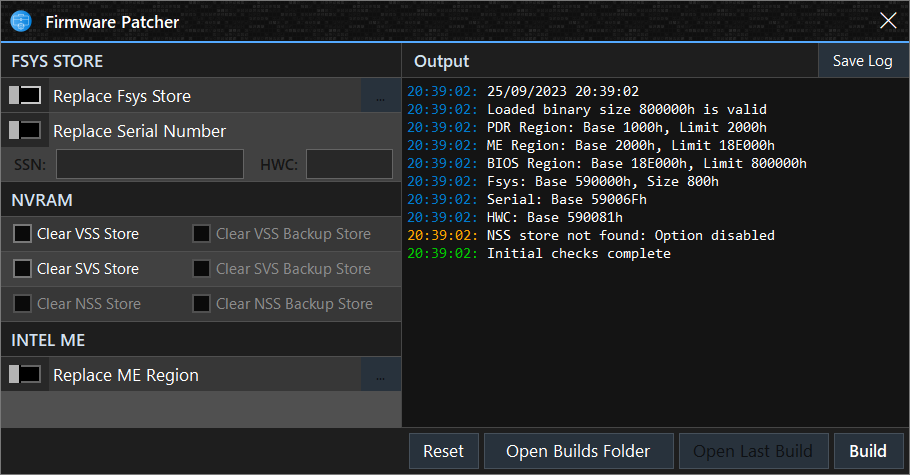
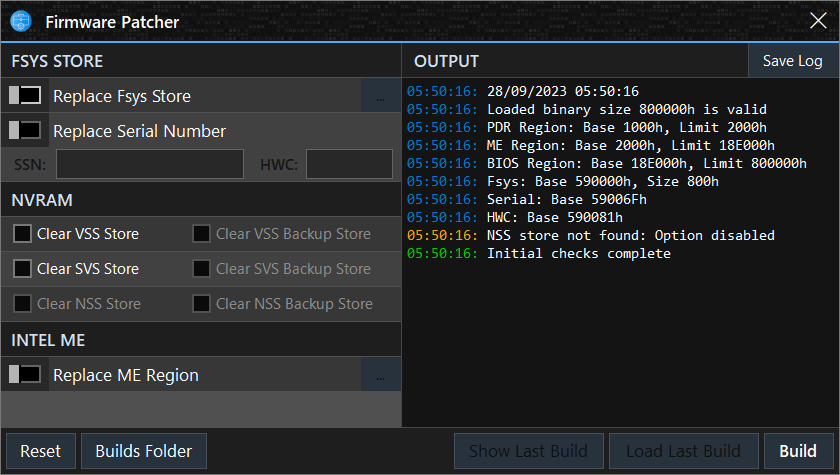
Update resources

diff --git a/mefit/WinForms/patcherWindow.Designer.cs b/mefit/WinForms/patcherWindow.Designer.cs
@@ -107,7 +107,7 @@ namespace Mac_EFI_Toolkit.WinForms
             this.pnlMain.Location = new System.Drawing.Point(1, 43);
             this.pnlMain.Margin = new System.Windows.Forms.Padding(2);
             this.pnlMain.Name = "pnlMain";
-            this.pnlMain.Size = new System.Drawing.Size(908, 385);
+            this.pnlMain.Size = new System.Drawing.Size(838, 385);
             this.pnlMain.TabIndex = 0;
             // 
             // tlpMain
@@ -124,7 +124,7 @@ namespace Mac_EFI_Toolkit.WinForms
             this.tlpMain.Name = "tlpMain";
             this.tlpMain.RowCount = 1;
             this.tlpMain.RowStyles.Add(new System.Windows.Forms.RowStyle(System.Windows.Forms.SizeType.Percent, 100F));
-            this.tlpMain.Size = new System.Drawing.Size(908, 385);
+            this.tlpMain.Size = new System.Drawing.Size(838, 385);
             this.tlpMain.TabIndex = 0;
             this.tlpMain.TabStop = true;
             // 
@@ -709,7 +709,7 @@ namespace Mac_EFI_Toolkit.WinForms
             this.tlpLog.RowStyles.Add(new System.Windows.Forms.RowStyle(System.Windows.Forms.SizeType.Absolute, 1F));
             this.tlpLog.RowStyles.Add(new System.Windows.Forms.RowStyle(System.Windows.Forms.SizeType.Percent, 100F));
             this.tlpLog.RowStyles.Add(new System.Windows.Forms.RowStyle(System.Windows.Forms.SizeType.Absolute, 1F));
-            this.tlpLog.Size = new System.Drawing.Size(507, 385);
+            this.tlpLog.Size = new System.Drawing.Size(437, 385);
             this.tlpLog.TabIndex = 1;
             // 
             // pnlLog
@@ -721,7 +721,7 @@ namespace Mac_EFI_Toolkit.WinForms
             this.pnlLog.Margin = new System.Windows.Forms.Padding(0);
             this.pnlLog.Name = "pnlLog";
             this.pnlLog.Padding = new System.Windows.Forms.Padding(4);
-            this.pnlLog.Size = new System.Drawing.Size(507, 349);
+            this.pnlLog.Size = new System.Drawing.Size(437, 349);
             this.pnlLog.TabIndex = 3;
             // 
             // rtbLog
@@ -735,7 +735,7 @@ namespace Mac_EFI_Toolkit.WinForms
             this.rtbLog.Margin = new System.Windows.Forms.Padding(0);
             this.rtbLog.Name = "rtbLog";
             this.rtbLog.ReadOnly = true;
-            this.rtbLog.Size = new System.Drawing.Size(499, 341);
+            this.rtbLog.Size = new System.Drawing.Size(429, 341);
             this.rtbLog.TabIndex = 0;
             this.rtbLog.TabStop = false;
             this.rtbLog.Text = "";
@@ -757,7 +757,7 @@ namespace Mac_EFI_Toolkit.WinForms
             this.tlpOutput.Name = "tlpOutput";
             this.tlpOutput.RowCount = 1;
             this.tlpOutput.RowStyles.Add(new System.Windows.Forms.RowStyle(System.Windows.Forms.SizeType.Percent, 100F));
-            this.tlpOutput.Size = new System.Drawing.Size(507, 34);
+            this.tlpOutput.Size = new System.Drawing.Size(437, 34);
             this.tlpOutput.TabIndex = 6;
             // 
             // lblOutputText
@@ -770,7 +770,7 @@ namespace Mac_EFI_Toolkit.WinForms
             this.lblOutputText.Margin = new System.Windows.Forms.Padding(0);
             this.lblOutputText.Name = "lblOutputText";
             this.lblOutputText.Padding = new System.Windows.Forms.Padding(8, 0, 0, 0);
-            this.lblOutputText.Size = new System.Drawing.Size(416, 34);
+            this.lblOutputText.Size = new System.Drawing.Size(346, 34);
             this.lblOutputText.TabIndex = 99;
             this.lblOutputText.Text = "OUTPUT";
             this.lblOutputText.TextAlign = System.Drawing.ContentAlignment.MiddleLeft;
@@ -786,7 +786,7 @@ namespace Mac_EFI_Toolkit.WinForms
             this.cmdSaveLog.FlatStyle = System.Windows.Forms.FlatStyle.Flat;
             this.cmdSaveLog.Font = new System.Drawing.Font("Segoe UI", 9F, System.Drawing.FontStyle.Regular, System.Drawing.GraphicsUnit.Point, ((byte)(0)));
             this.cmdSaveLog.ForeColor = System.Drawing.Color.White;
-            this.cmdSaveLog.Location = new System.Drawing.Point(417, 0);
+            this.cmdSaveLog.Location = new System.Drawing.Point(347, 0);
             this.cmdSaveLog.Margin = new System.Windows.Forms.Padding(0);
             this.cmdSaveLog.Name = "cmdSaveLog";
             this.cmdSaveLog.Size = new System.Drawing.Size(90, 34);
@@ -812,7 +812,7 @@ namespace Mac_EFI_Toolkit.WinForms
             this.tlpTitle.Name = "tlpTitle";
             this.tlpTitle.RowCount = 1;
             this.tlpTitle.RowStyles.Add(new System.Windows.Forms.RowStyle(System.Windows.Forms.SizeType.Percent, 100F));
-            this.tlpTitle.Size = new System.Drawing.Size(908, 40);
+            this.tlpTitle.Size = new System.Drawing.Size(838, 40);
             this.tlpTitle.TabIndex = 99;
             // 
             // pbxLogo
@@ -837,7 +837,7 @@ namespace Mac_EFI_Toolkit.WinForms
             this.lblTitle.Location = new System.Drawing.Point(40, 0);
             this.lblTitle.Margin = new System.Windows.Forms.Padding(0);
             this.lblTitle.Name = "lblTitle";
-            this.lblTitle.Size = new System.Drawing.Size(828, 40);
+            this.lblTitle.Size = new System.Drawing.Size(758, 40);
             this.lblTitle.TabIndex = 99;
             this.lblTitle.Text = "Firmware Patcher";
             this.lblTitle.TextAlign = System.Drawing.ContentAlignment.MiddleLeft;
@@ -854,7 +854,7 @@ namespace Mac_EFI_Toolkit.WinForms
             this.cmdClose.FlatStyle = System.Windows.Forms.FlatStyle.Flat;
             this.cmdClose.Font = new System.Drawing.Font("Segoe UI", 10.8F, System.Drawing.FontStyle.Regular, System.Drawing.GraphicsUnit.Point, ((byte)(0)));
             this.cmdClose.ForeColor = System.Drawing.Color.White;
-            this.cmdClose.Location = new System.Drawing.Point(868, 0);
+            this.cmdClose.Location = new System.Drawing.Point(798, 0);
             this.cmdClose.Margin = new System.Windows.Forms.Padding(0);
             this.cmdClose.MaximumSize = new System.Drawing.Size(40, 40);
             this.cmdClose.MinimumSize = new System.Drawing.Size(40, 40);
@@ -875,7 +875,7 @@ namespace Mac_EFI_Toolkit.WinForms
             this.pnlSeperator.Location = new System.Drawing.Point(1, 41);
             this.pnlSeperator.Margin = new System.Windows.Forms.Padding(2);
             this.pnlSeperator.Name = "pnlSeperator";
-            this.pnlSeperator.Size = new System.Drawing.Size(908, 2);
+            this.pnlSeperator.Size = new System.Drawing.Size(838, 2);
             this.pnlSeperator.TabIndex = 97;
             // 
             // tlpButtons
@@ -899,7 +899,7 @@ namespace Mac_EFI_Toolkit.WinForms
             this.tlpButtons.Name = "tlpButtons";
             this.tlpButtons.RowCount = 1;
             this.tlpButtons.RowStyles.Add(new System.Windows.Forms.RowStyle(System.Windows.Forms.SizeType.Percent, 100F));
-            this.tlpButtons.Size = new System.Drawing.Size(908, 46);
+            this.tlpButtons.Size = new System.Drawing.Size(838, 46);
             this.tlpButtons.TabIndex = 1;
             // 
             // cmdBuild
@@ -912,7 +912,7 @@ namespace Mac_EFI_Toolkit.WinForms
             this.cmdBuild.FlatStyle = System.Windows.Forms.FlatStyle.Flat;
             this.cmdBuild.Font = new System.Drawing.Font("Segoe UI Semibold", 10.2F, System.Drawing.FontStyle.Bold, System.Drawing.GraphicsUnit.Point, ((byte)(0)));
             this.cmdBuild.ForeColor = System.Drawing.Color.White;
-            this.cmdBuild.Location = new System.Drawing.Point(833, 5);
+            this.cmdBuild.Location = new System.Drawing.Point(763, 5);
             this.cmdBuild.Margin = new System.Windows.Forms.Padding(0);
             this.cmdBuild.Name = "cmdBuild";
             this.cmdBuild.Size = new System.Drawing.Size(70, 36);
@@ -932,7 +932,7 @@ namespace Mac_EFI_Toolkit.WinForms
             this.cmdLoadLastBuild.FlatStyle = System.Windows.Forms.FlatStyle.Flat;
             this.cmdLoadLastBuild.Font = new System.Drawing.Font("Segoe UI", 10.2F, System.Drawing.FontStyle.Regular, System.Drawing.GraphicsUnit.Point, ((byte)(0)));
             this.cmdLoadLastBuild.ForeColor = System.Drawing.Color.White;
-            this.cmdLoadLastBuild.Location = new System.Drawing.Point(678, 5);
+            this.cmdLoadLastBuild.Location = new System.Drawing.Point(608, 5);
             this.cmdLoadLastBuild.Margin = new System.Windows.Forms.Padding(0);
             this.cmdLoadLastBuild.Name = "cmdLoadLastBuild";
             this.cmdLoadLastBuild.Padding = new System.Windows.Forms.Padding(1, 0, 0, 0);
@@ -993,7 +993,7 @@ namespace Mac_EFI_Toolkit.WinForms
             this.cmdShowLastBuild.FlatStyle = System.Windows.Forms.FlatStyle.Flat;
             this.cmdShowLastBuild.Font = new System.Drawing.Font("Segoe UI", 10.2F, System.Drawing.FontStyle.Regular, System.Drawing.GraphicsUnit.Point, ((byte)(0)));
             this.cmdShowLastBuild.ForeColor = System.Drawing.Color.White;
-            this.cmdShowLastBuild.Location = new System.Drawing.Point(523, 5);
+            this.cmdShowLastBuild.Location = new System.Drawing.Point(453, 5);
             this.cmdShowLastBuild.Margin = new System.Windows.Forms.Padding(0);
             this.cmdShowLastBuild.Name = "cmdShowLastBuild";
             this.cmdShowLastBuild.Padding = new System.Windows.Forms.Padding(1, 0, 0, 0);
@@ -1010,7 +1010,7 @@ namespace Mac_EFI_Toolkit.WinForms
             this.AutoSize = true;
             this.AutoSizeMode = System.Windows.Forms.AutoSizeMode.GrowAndShrink;
             this.BackColor = System.Drawing.Color.FromArgb(((int)(((byte)(120)))), ((int)(((byte)(120)))), ((int)(((byte)(120)))));
-            this.ClientSize = new System.Drawing.Size(910, 475);
+            this.ClientSize = new System.Drawing.Size(840, 475);
             this.Controls.Add(this.pnlMain);
             this.Controls.Add(this.pnlSeperator);
             this.Controls.Add(this.tlpTitle);
@@ -1021,7 +1021,7 @@ namespace Mac_EFI_Toolkit.WinForms
             this.KeyPreview = true;
             this.Margin = new System.Windows.Forms.Padding(2);
             this.MaximizeBox = false;
-            this.MinimumSize = new System.Drawing.Size(910, 475);
+            this.MinimumSize = new System.Drawing.Size(840, 475);
             this.Name = "patcherWindow";
             this.Padding = new System.Windows.Forms.Padding(1);
             this.StartPosition = System.Windows.Forms.FormStartPosition.CenterParent;

diff --git a/MANUAL.md b/MANUAL.md
@@ -361,20 +361,23 @@ The output log serves as a valuable source of information during the validation 
 
 ---
 
-#### Editor Buttons:
+#### Patcher Buttons:
 
 <kbd>
-  <img src="files/manual/editorbuttons.png">
+  <img src="files/manual/patcher_buttons.png">
 </kbd>
 
 **Reset:**\
 When you click the 'Reset' button, it initiates a process that resets the editor and unloads any loaded files, such as the Fsys store and ME region.
 
-**Open Build Directory:**\
+**Builds Folder:**\
 Navigates to the Builds directory within the working directory, this is where edited binaries are automatically saved when the 'Build' button is used.
 
-**Open Last Build:**\
-Clicking 'Open Last Build' will close the firmware editor window and load in the last successfully built binary into the main window.
+**Show Last Build:**\
+Navigates to the latest build in the file explorer and highlights the file.
+
+**Load Last Build:**\
+Clicking this button will close the firmware editor window and load in the last successfully built binary into the main window.
 
 **Build**\
 The 'Build' button generates a new binary file based on the user specified preferences.
